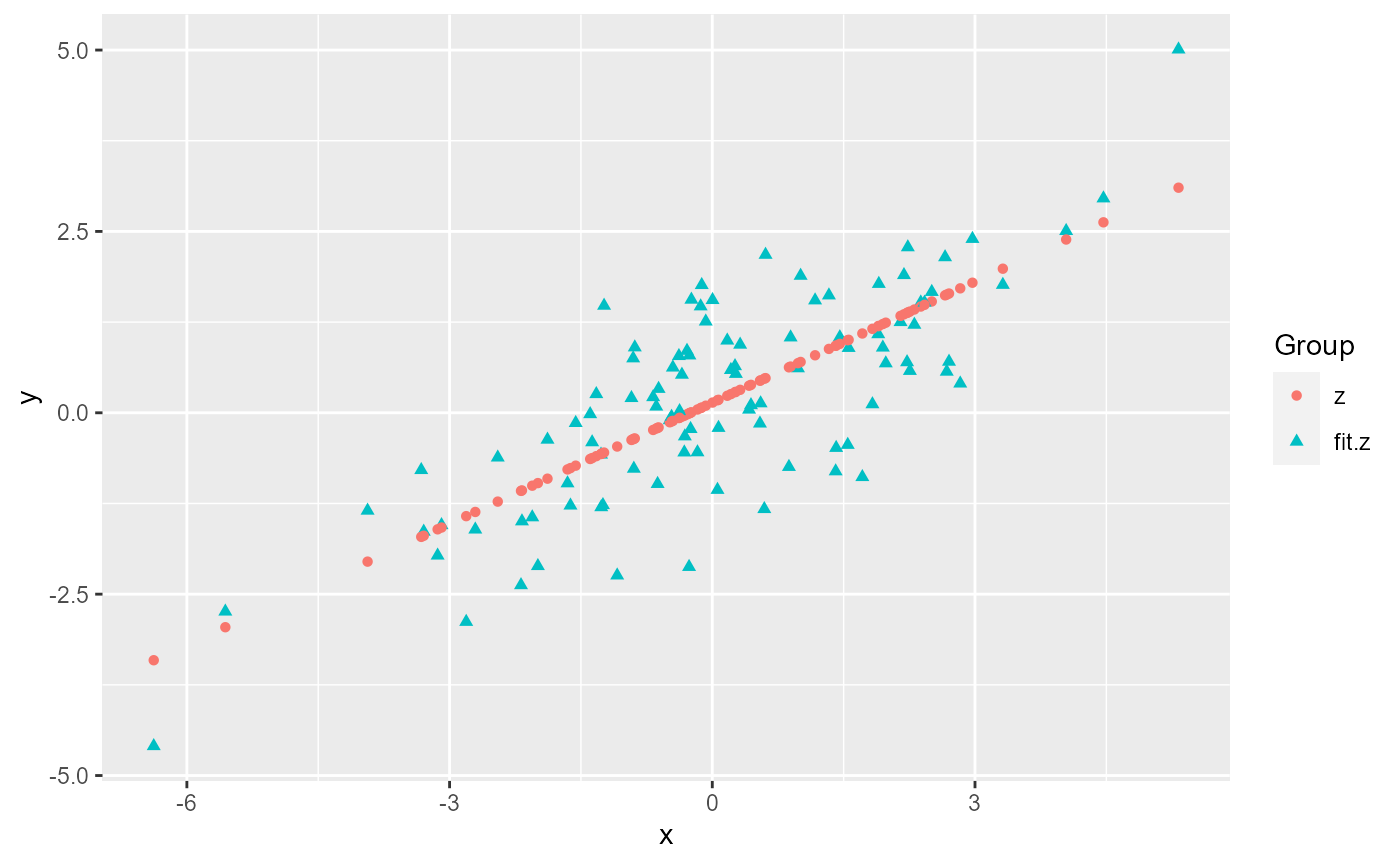
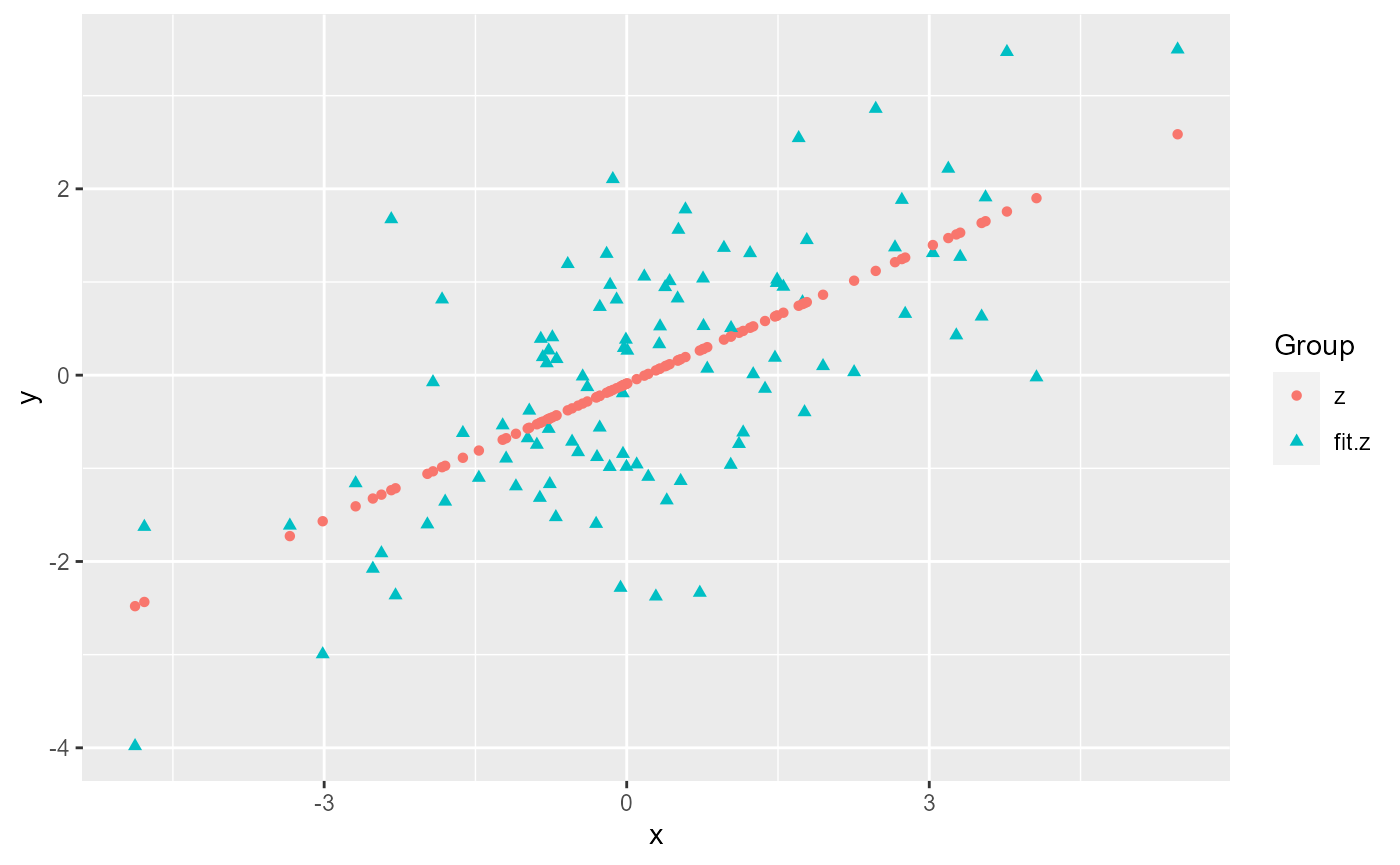
Updated authors

diff --git a/docs/articles/ggmatplot.html b/docs/articles/ggmatplot.html
@@ -54,7 +54,7 @@
   </a>
   <ul class="dropdown-menu" role="menu">
 <li>
-      <a href="../docs/articles/ggmatplot.html">ggmatplot</a>
+      <a href="../articles/ggmatplot.html">ggmatplot</a>
     </li>
   </ul>
 </li>
@@ -104,8 +104,7 @@
 <code class="sourceCode R"><span class="co"># matrix x</span>
 <span class="va">x</span> <span class="op">&lt;-</span> <span class="fu"><a href="https://rdrr.io/r/stats/Normal.html">rnorm</a></span><span class="op">(</span><span class="fl">100</span>, sd <span class="op">=</span> <span class="fl">2</span><span class="op">)</span>
 <span class="fu"><a href="https://rdrr.io/r/utils/head.html">head</a></span><span class="op">(</span><span class="va">x</span><span class="op">)</span>
-<span class="co">#&gt; [1] -2.706439790 -0.288749910  1.331899300  0.002873335 -1.619587841</span>
-<span class="co">#&gt; [6]  1.981285616</span></code></pre></div>
+<span class="co">#&gt; [1] -2.33454976 -0.29446973 -0.85199458  3.76998547  0.39707632 -0.03705753</span></code></pre></div>
 <p><code>y</code>: a matrix with two columns - <code>z</code> and <code>fit.z</code></p>
 <div class="sourceCode" id="cb3"><pre class="downlit sourceCode r">
 <code class="sourceCode R"><span class="co"># matrix y</span>
@@ -113,13 +112,13 @@
 <span class="va">fit.z</span> <span class="op">&lt;-</span> <span class="fu"><a href="https://rdrr.io/r/stats/fitted.values.html">fitted</a></span><span class="op">(</span><span class="fu"><a href="https://rdrr.io/r/stats/lm.html">lm</a></span><span class="op">(</span><span class="va">z</span> <span class="op">~</span> <span class="va">x</span><span class="op">)</span><span class="op">)</span>
 <span class="va">y</span> <span class="op">&lt;-</span> <span class="fu"><a href="https://rdrr.io/r/base/cbind.html">cbind</a></span><span class="op">(</span><span class="va">z</span>, <span class="va">fit.z</span><span class="op">)</span>
 <span class="fu"><a href="https://rdrr.io/r/utils/head.html">head</a></span><span class="op">(</span><span class="va">y</span><span class="op">)</span>
-<span class="co">#&gt;            z       fit.z</span>
-<span class="co">#&gt; 1 -1.6085695 -1.36691597</span>
-<span class="co">#&gt; 2  0.8549861 -0.02130743</span>
-<span class="co">#&gt; 3  1.6186478  0.88069388</span>
-<span class="co">#&gt; 4  1.5549930  0.14100070</span>
-<span class="co">#&gt; 5 -1.2778386 -0.76200908</span>
-<span class="co">#&gt; 6  0.6824122  1.24212144</span></code></pre></div>
+<span class="co">#&gt;            z      fit.z</span>
+<span class="co">#&gt; 1  1.6744857 -1.2347523</span>
+<span class="co">#&gt; 2 -0.8782043 -0.2351306</span>
+<span class="co">#&gt; 3  0.3906873 -0.5083130</span>
+<span class="co">#&gt; 4  3.4693770  1.7564176</span>
+<span class="co">#&gt; 5 -1.3436033  0.1037211</span>
+<span class="co">#&gt; 6 -0.8445992 -0.1090008</span></code></pre></div>
 <p><code><a href="../reference/ggmatplot.html">ggmatplot()</a></code> can be used to plot <code>x</code> against each column of <code>y</code> - <code>x</code> against <code>z</code>, and <code>x</code> against <code>fit.z</code>. This will be represented on the resulting plot as two groups, identified using different shapes and colors.</p>
 <div class="sourceCode" id="cb4"><pre class="downlit sourceCode r">
 <code class="sourceCode R"><span class="fu"><a href="../reference/ggmatplot.html">ggmatplot</a></span><span class="op">(</span><span class="va">x</span>, <span class="va">y</span><span class="op">)</span></code></pre></div>
@@ -240,7 +239,7 @@
 
 
       <footer><div class="copyright">
-  <p>Developed by Xuan Liang, Francis Hui.</p>
+  <p>Developed by Xuan Liang, Francis Hui, Emi Tanaka, Dilinie Seimon.</p>
 </div>
 
 <div class="pkgdown">

diff --git a/docs/index.html b/docs/index.html
@@ -248,6 +248,8 @@
 <ul class="list-unstyled">
 <li>Xuan Liang <br><small class="roles"> Author, maintainer </small>  </li>
 <li>Francis Hui <br><small class="roles"> Author </small>  </li>
+<li>Emi Tanaka <br><small class="roles"> Author </small>  </li>
+<li>Dilinie Seimon <br><small class="roles"> Author </small>  </li>
 </ul>
 </div>
 
@@ -256,7 +258,7 @@
 
 
       <footer><div class="copyright">
-  <p>Developed by Xuan Liang, Francis Hui.</p>
+  <p>Developed by Xuan Liang, Francis Hui, Emi Tanaka, Dilinie Seimon.</p>
 </div>
 
 <div class="pkgdown">

diff --git a/docs/authors.html b/docs/authors.html
@@ -131,6 +131,14 @@
         <p><strong>Francis Hui</strong>. Author. 
         </p>
       </li>
+      <li>
+        <p><strong>Emi Tanaka</strong>. Author. 
+        </p>
+      </li>
+      <li>
+        <p><strong>Dilinie Seimon</strong>. Author. 
+        </p>
+      </li>
     </ul>
 
   </div>
@@ -141,7 +149,7 @@
 
       <footer>
       <div class="copyright">
-  <p>Developed by Xuan Liang, Francis Hui.</p>
+  <p>Developed by Xuan Liang, Francis Hui, Emi Tanaka, Dilinie Seimon.</p>
 </div>
 
 <div class="pkgdown">

diff --git a/docs/404.html b/docs/404.html
@@ -94,7 +94,7 @@
   </a>
   <ul class="dropdown-menu" role="menu">
     <li>
-      <a href="docs/articles/ggmatplot.html">ggmatplot</a>
+      <a href="articles/ggmatplot.html">ggmatplot</a>
     </li>
   </ul>
 </li>
@@ -138,7 +138,7 @@ Content not found. Please use links in the navbar.
 
       <footer>
       <div class="copyright">
-  <p>Developed by Xuan Liang, Francis Hui.</p>
+  <p>Developed by Xuan Liang, Francis Hui, Emi Tanaka, Dilinie Seimon.</p>
 </div>
 
 <div class="pkgdown">

diff --git a/docs/articles/index.html b/docs/articles/index.html
@@ -94,7 +94,7 @@
   </a>
   <ul class="dropdown-menu" role="menu">
     <li>
-      <a href="../docs/articles/ggmatplot.html">ggmatplot</a>
+      <a href="../articles/ggmatplot.html">ggmatplot</a>
     </li>
   </ul>
 </li>
@@ -137,7 +137,7 @@
 
       <footer>
       <div class="copyright">
-  <p>Developed by Xuan Liang, Francis Hui.</p>
+  <p>Developed by Xuan Liang, Francis Hui, Emi Tanaka, Dilinie Seimon.</p>
 </div>
 
 <div class="pkgdown">

diff --git a/docs/reference/ggmatplot.html b/docs/reference/ggmatplot.html
@@ -242,7 +242,7 @@ be parameters passed on to the corresponding <a href='https://ggplot2.tidyverse.
 
       <footer>
       <div class="copyright">
-  <p>Developed by Xuan Liang, Francis Hui.</p>
+  <p>Developed by Xuan Liang, Francis Hui, Emi Tanaka, Dilinie Seimon.</p>
 </div>
 
 <div class="pkgdown">

diff --git a/docs/LICENSE.html b/docs/LICENSE.html
@@ -360,7 +360,7 @@
 
       <footer>
       <div class="copyright">
-  <p>Developed by Xuan Liang, Francis Hui.</p>
+  <p>Developed by Xuan Liang, Francis Hui, Emi Tanaka, Dilinie Seimon.</p>
 </div>
 
 <div class="pkgdown">

diff --git a/docs/reference/index.html b/docs/reference/index.html
@@ -163,7 +163,7 @@
 
       <footer>
       <div class="copyright">
-  <p>Developed by Xuan Liang, Francis Hui.</p>
+  <p>Developed by Xuan Liang, Francis Hui, Emi Tanaka, Dilinie Seimon.</p>
 </div>
 
 <div class="pkgdown">
